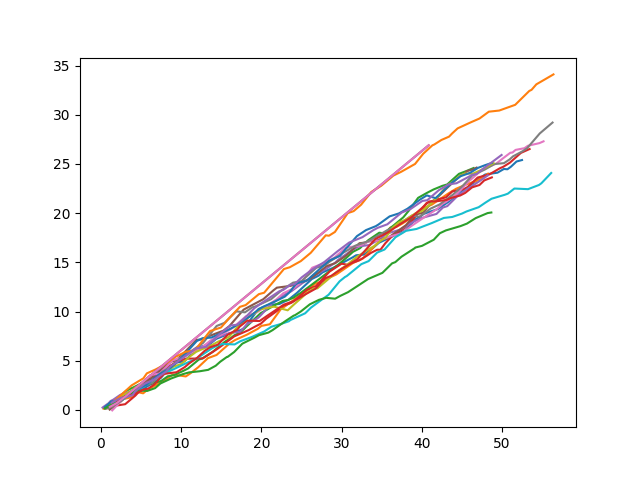
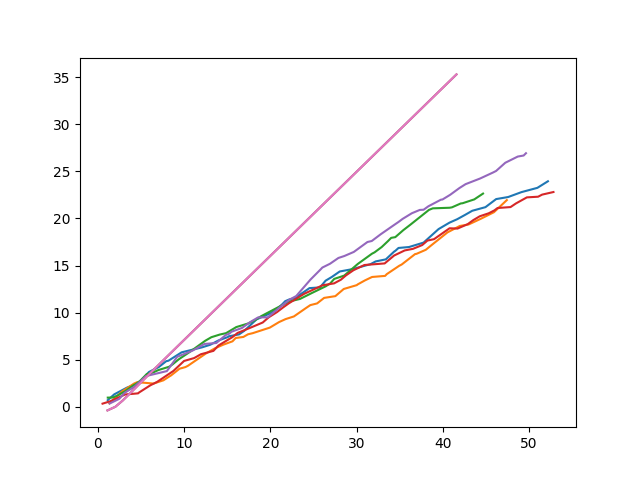
mimic with x uniform motion completed

diff --git a/model.py b/model.py
@@ -10,7 +10,7 @@ dtype = torch.float
 class SimpleLearner(nn.Module): 
     def __init__(self, args):
         super(SimpleLearner, self).__init__()
-        self.state = State(**{"x":0, "y":0, "z": 0, "t": datetime.datetime.now()})
+        self.state = State(**{"x":0, "y":0, "z": 0, "t": 0})
         self.hidden_size = args.hidden_size
 
         self.lstm = nn.LSTM(input_size=args.input_size, hidden_size=args.hidden_size, dropout=0.2)
@@ -49,7 +49,7 @@ class SimpleLearner(nn.Module):
 if __name__=="__main__":
     parser = argparse.ArgumentParser()
     parser.add_argument('--hidden_size', action='store', type=int, default=32, help='hidden_size', required=False)
-    parser.add_argument('--input_size', action='store', type=int, default=3, help='input_size', required=False) #x, y, z
+    parser.add_argument('--input_size', action='store', type=int, default=4, help='input_size', required=False) #x, y, z, t
     parser.add_argument('--output_size', action='store', type=int, default=4, help='output_size', required=False) #dx, dy, dz, dt
     parser.add_argument('--batch_size', action='store', type=int, default=1, help='output_size', required=False) #chunk?
     parser.add_argument('--epochs', action='store', type=int, default=100, help='output_size', required=False) 
@@ -66,10 +66,11 @@ if __name__=="__main__":
     #data
     # position, 
     actions_dataset = [] 
-    for i in range(15):
+    for i in range(5):
         actions_dataset.append(generate_random_scenario(True))
-    print(actions_dataset[0][0][0])
-    print(actions_dataset[0][1][0])
+    
+    # print('actions',actions_dataset[0][0])
+    # print('pos',actions_dataset[0][1])
 
     #train
     model = SimpleLearner(args).to(device)
@@ -110,13 +111,12 @@ if __name__=="__main__":
             
     #inference
     for kk in range(2):
-        poss = init_positions = torch.from_numpy(np.array([[0.,0.,0.]], dtype=np.float32))
+        poss = init_positions = torch.from_numpy(np.array([[0.,0.,0., 0.]], dtype=np.float32))
         states = []
         for pos in poss:
             state_dict = {}
-            for loc, val in zip(['x', 'y', 'z'], pos):
+            for loc, val in zip(['x', 'y', 'z', 't'], pos):
                 state_dict[loc] = val
-            state_dict['t'] = datetime.datetime.now()
             states.append(state_dict)
         for state_dict in states:
             Testbed = State(**state_dict)
@@ -131,11 +131,12 @@ if __name__=="__main__":
             dt = predict[0,-1]
             predict = predict[0, 0:-1]
             predict = predict.tolist()
+            print(predict)
             act_dict={}
             for loc, val in zip(['dx','dy','dz'], predict):
                 act_dict[loc]=float(val)
             action = Action(**act_dict)
-            Testbed.act(action)
+            Testbed.act(action, dt)
             x.append(Testbed.to_list()[0])
             # t.append(Testbed.to_list()[-1])
             dt = dt.detach().numpy()

diff --git a/random_d.py b/random_d.py
@@ -10,15 +10,18 @@ class State(BaseModel):
     x : float
     y : float
     z : float
-    t : datetime.datetime
+    t : float
 
-    def act(self, action):
+    def act(self, action, deltime):
         self.x += action.dx
         # self.x += action[0]
         self.y += action.dy
         # self.y += action[1]
         self.z += action.dz
         # self.z += action[0]
+        self.t += deltime
+    def elapse(self, dt):
+        self.t += dt
     def to_list(self):
         return [self.x, self.y, self.z, self.t]
 
@@ -35,7 +38,6 @@ class Action(BaseModel):
 
 def generate_random_action(state, now):
     state.t = now
-    # deltime = np.random.normal(1, 0.5, size=(1,))
     deltime = random.gauss(mu=1.0, sigma=0.5)
     deltime = abs(deltime)
     # deltime = datetime.datetime.now()-now
@@ -54,14 +56,14 @@ def generate_random_scenario(save=None) -> list:
     save_times = []
     save_xs=[]
     save_accum=0
-    state = State(**{"x":0, "y":0, "z": 0, "t": datetime.datetime.now()})
+    state = State(**{"x":0, "y":0, "z": 0, "t": 0})
     for i in range(50):
-        positions.append(torch.tensor([state.to_list()[:-1]]))
-        action, deltime = generate_random_action(state, datetime.datetime.now())
+        positions.append(torch.tensor([state.to_list()]))
+        action, deltime = generate_random_action(state, save_accum)
         if action.dx == 0:
             continue
         actions.append(torch.tensor([action.to_list()+[deltime]]))
-        state.act(action)
+        state.act(action, deltime)
         save_times.append(save_accum+deltime)
         save_xs.append(state.x)
         save_accum+=deltime
@@ -75,7 +77,7 @@ def generate_random_scenario(save=None) -> list:
 
 if __name__ == "__main__":
     generate_random_scenario(True)
-    current = State(**{"x":0, "y":0, "z": 0, "t": datetime.datetime.now()})
+    current = State(**{"x":0, "y":0, "z": 0, "t": 0.})
     actions = []
     times = []
     xs=[]
@@ -83,8 +85,8 @@ if __name__ == "__main__":
     accum_time=0
     x = 0
     for i in range(10):
-        action, deltime = generate_random_action(current, datetime.datetime.now())
-        current.act(action)
+        action, deltime = generate_random_action(current, current.t)
+        current.act(action, deltime)
         actions.append(action.to_list())
         times.append(accum_time+deltime)
         dts.append(deltime)
